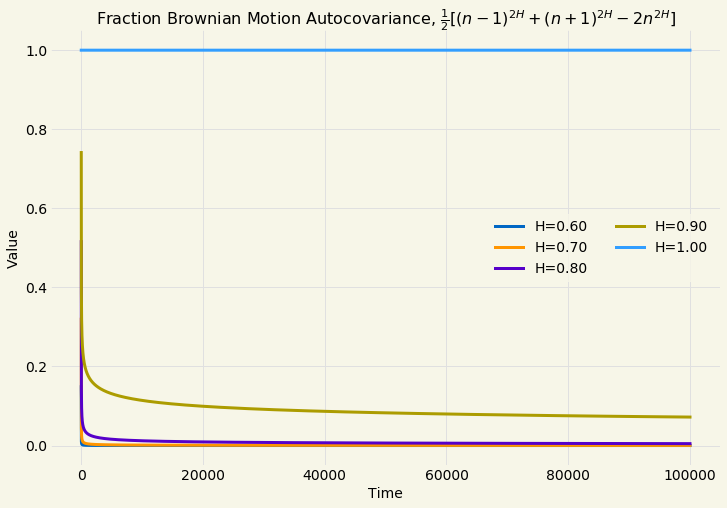
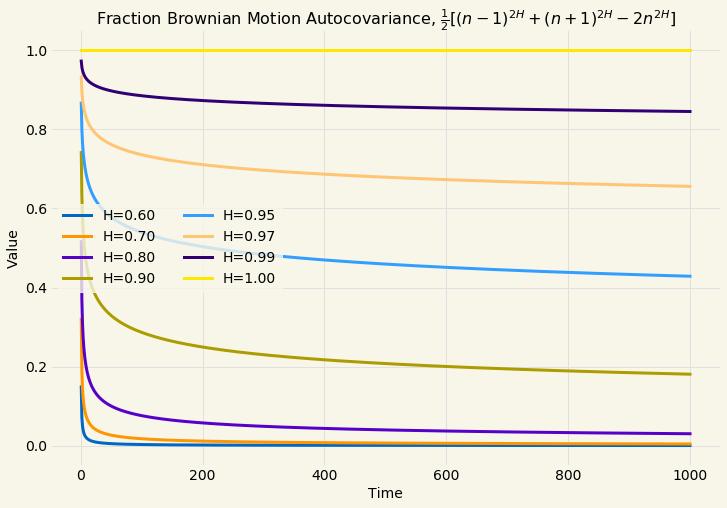
added autocovariance limit plots

diff --git a/hydrogen_notebooks/algorithmic_trading/simulation/fractional_brownian_motion_parameters.py b/hydrogen_notebooks/algorithmic_trading/simulation/fractional_brownian_motion_parameters.py
@@ -40,6 +40,19 @@ def fbm_autocovariance_plot(H_vals, time, Δt, file_name):
     axis.legend(ncol=2)
     config.save_post_asset(figure, "brownian_motion", file_name)
 
+def fbm_autocvariance_limit(H_vals, time, Δt, file_name):
+    figure, axis = pyplot.subplots(figsize=(12, 8))
+    axis.set_xlabel("Time")
+    axis.set_ylabel("Value")
+    axis.set_title(r"Fraction Brownian Motion Autocovariance for large $n$, $H(2H-1)n^{2H-2}$")
+
+    for H in H_vals:
+        axis.plot(time, brownian_motion.fbm_autocovariance_limit(H, time, Δt), label=f"H={format(H, '1.2f')}")
+
+    axis.legend(ncol=2)
+    config.save_post_asset(figure, "brownian_motion", file_name)
+
+
 # %%
 
 tmax = 1.0
@@ -112,11 +125,22 @@ fbm_autocovariance_plot(H_vals, time, Δt, "fractional_brownian_motion_autocovar
 
 # %%
 
-tmax = 100000.0
+tmax = 1000.0
 Δt = 1.0
 nsteps = int(tmax/Δt)
 
-H_vals = [0.6, 0.7, 0.8, 0.9, 1.0]
+H_vals = [0.6, 0.7, 0.8, 0.9, 0.95, 0.975, 0.99, 1.0]
 time = numpy.linspace(1.0, tmax, nsteps)
 
 fbm_autocovariance_plot(H_vals, time, Δt, "fractional_brownian_motion_autocovariance_H_gt_eq_0.5")
+
+# %%
+
+tmax = 1000.0
+Δt = 1.0
+nsteps = int(tmax/Δt)
+
+H_vals = [0.6, 0.7, 0.8, 0.9, 0.95, 0.975, 0.99, 1.0]
+time = numpy.linspace(1.0, tmax, nsteps)
+
+fbm_autocvariance_limit(H_vals, time, Δt, "fractional_brownian_motion_autocovariance_limit_H_gt_eq_0.5")

diff --git a/lib/brownian_motion.py b/lib/brownian_motion.py
@@ -14,7 +14,10 @@ def fbm_covariance(H, s, time):
     return 0.5*(time**(2.0*H) + s**(2.0*H) - numpy.abs(time - s)**(2.0*H))
 
 def fbm_autocovariance(H, time, Δt):
-    return 0.5*((time-1.0)**(2.0*H) + (time+1.0)**(2.0*H) - 2.0*time**(2.0*H))
+    return 0.5*((time-Δt)**(2.0*H) + (time+Δt)**(2.0*H) - 2.0*time**(2.0*H))
+
+def fbm_autocovariance_limit(H, time, Δt):
+    return Δt**(2.0*H)*(H*(2.0*H - 1.0)*time**(2.0*H - 2.0))
 
 # Brownian Motion Simulations
 
